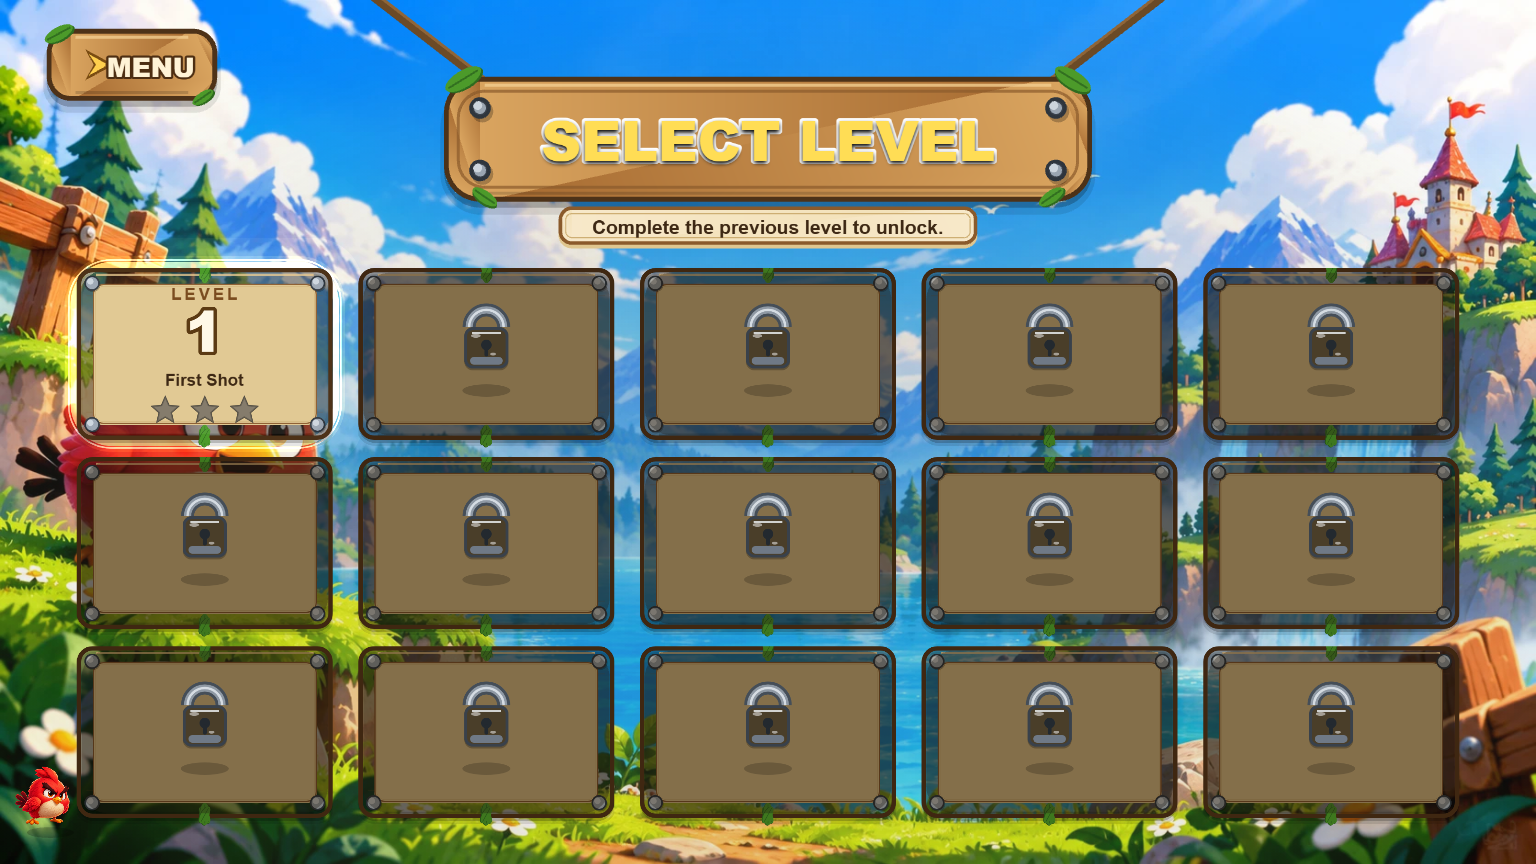
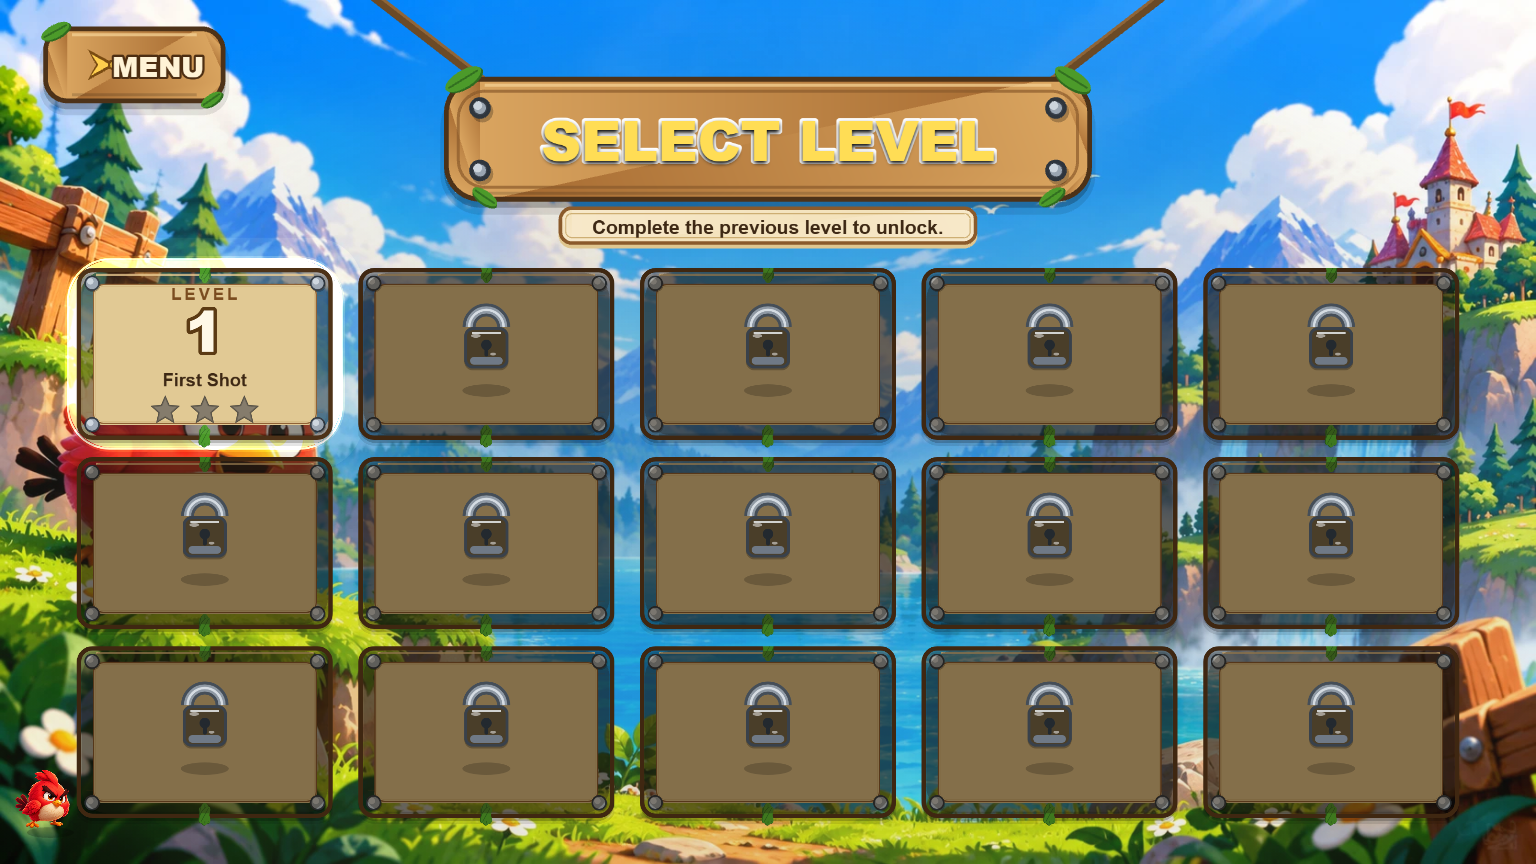
go

diff --git a/js/systems/LevelCard.js b/js/systems/LevelCard.js
@@ -226,10 +226,10 @@ function paintGlow(scene) {
   g.lineStyle(30, 0xffc93c, 0.14);
   g.strokeRoundedRect(69, 69, W - 138, H - 138, 100);
   // crisp golden border straddling the card edge (outer half visible)
-  g.lineStyle(15, 0xffe08a, 0.95);
-  g.strokeRoundedRect(76, 76, W - 152, H - 152, 96);
-  g.lineStyle(4, 0xfff3c0, 0.9);
-  g.strokeRoundedRect(64, 64, W - 128, H - 128, 104);
+  g.lineStyle(21, 0xffe08a, 0.95);
+  g.strokeRoundedRect(75, 75, W - 150, H - 150, 96);
+  g.lineStyle(5, 0xfff3c0, 0.9);
+  g.strokeRoundedRect(62, 62, W - 124, H - 124, 104);
   g.generateTexture(CARD_ART.glow, W, H);
   g.destroy();
 }
@@ -311,7 +311,7 @@ export class LevelCard {
     }).setResolution(3);
     this.name = menuText(scene, 0, height * 0.15, levelName, {
       fontFamily: 'Arial, sans-serif', fontStyle: 'bold',
-      fontSize: Math.round(height * 0.095) + 'px', color: '#3d2814',
+      fontSize: Math.round(height * 0.102) + 'px', color: '#3d2814',
       align: 'center', wordWrap: { width: width - 36 }
     });
     const starSize = height * 0.20;

diff --git a/js/scenes/LevelSelectScene.js b/js/scenes/LevelSelectScene.js
@@ -232,9 +232,9 @@ export class LevelSelectScene extends Phaser.Scene {
     arrow.fillRoundedRect(ax + 6, -2.5, 11, 5, 2);
     c.add(arrow);
 
-    const label = menuText(this, 16, 2, 'MENU', {
+    const label = menuText(this, 20, 2, 'MENU', {
       fontFamily: '"Arial Black", "Segoe UI Black", Arial, sans-serif',
-      fontStyle: 'bold', fontSize: '22px',
+      fontStyle: 'bold', fontSize: '23px',
       color: PALETTE.cream, stroke: PALETTE.creamStroke, strokeThickness: 4
     });
     c.add(label);
